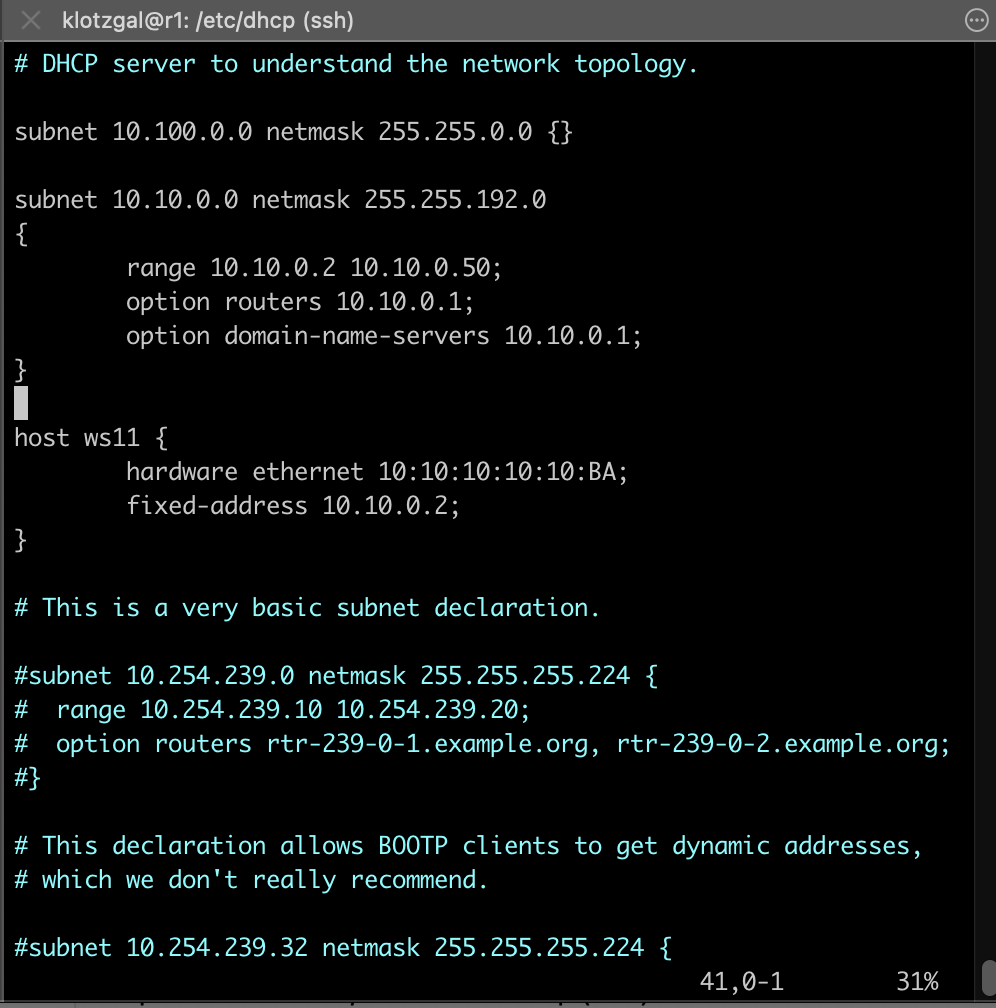
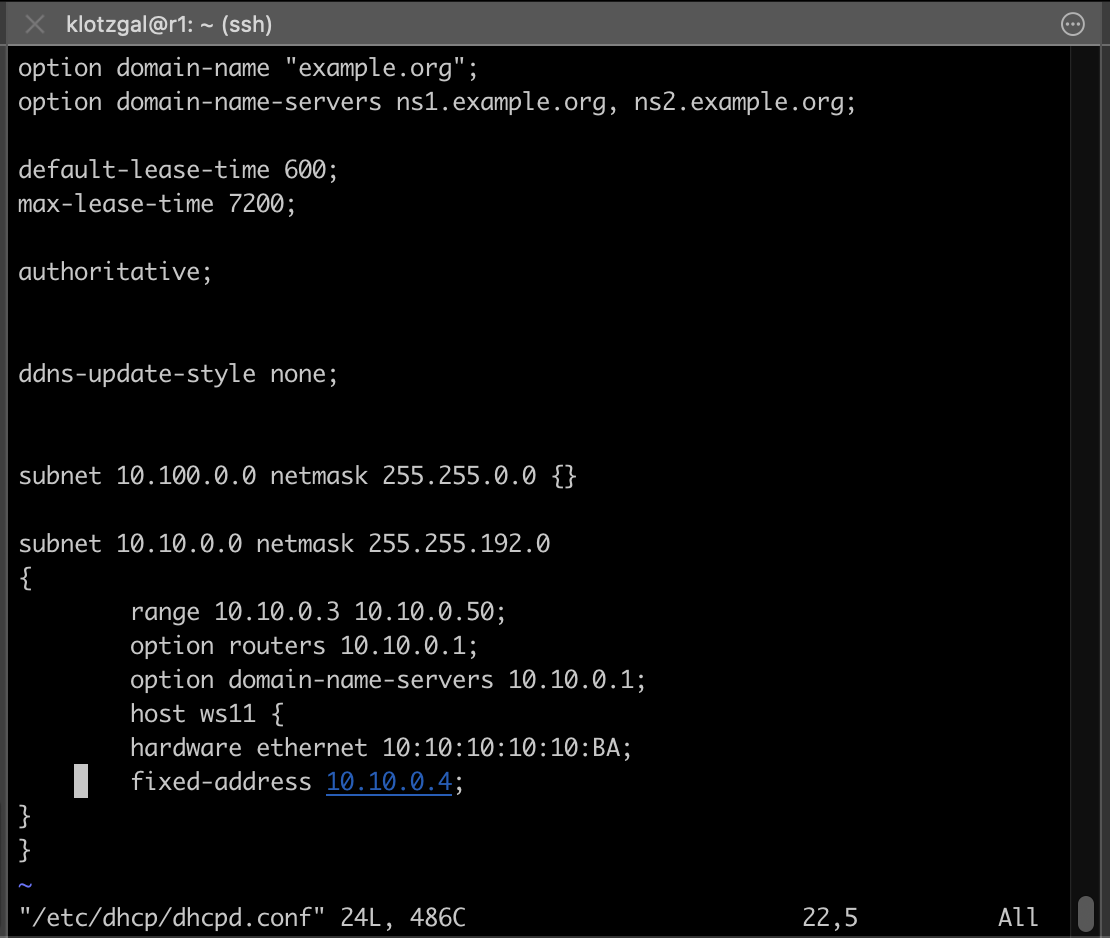
6

Changed region(s): [[0.0, 0.0, 1.0, 1.0], [0.5914, 0.8348, 0.9337, 0.8657], [0.6225, 0.7111, 0.9337, 0.742]]

diff --git a/src/otchet.md b/src/otchet.md
@@ -314,21 +314,21 @@ subnet 10.20.0.0 netmask 255.255.255.192
 - ![ws1](screens/6.7.png)
 ##### Запросить с ws21 обновление ip адреса
 - В отчёте поместить скрины ip до и после обновления.
+- ![ws1](screens/6.before.png)
+- ![ws1](screens/6.after.png)
 - В отчёте описать, какими опциями **DHCP** сервера пользовались в данном пункте.
-
-##### Сохранить дампы образов виртуальных машин
-**p.s. Ни в коем случае не сохранять дампы в гит!**
-
+- sudo dhclient -r
+- sudo dhclient -v
+- ![ws1](screens/6.8.png)
 ## Part 7. **NAT**
-`-` Ну и, наконец, в качестве вишенки на торте, я расскажу тебе про механизм преобразования адресов.
 
 **== Задание ==**
-
-*В данном задании используются виртуальные машины из Части 5*
 ##### В файле */etc/apache2/ports.conf* на ws22 и r1 изменить строку `Listen 80` на `Listen 0.0.0.0:80`, то есть сделать сервер Apache2 общедоступным
 - В отчёт поместить скрин с содержанием изменённого файла.
+- ![ws1](screens/7.1.png)
 ##### Запустить веб-сервер Apache командой `service apache2 start` на ws22 и r1
 - В отчёт поместить скрины с вызовом и выводом использованной команды.
+- ![ws1](screens/7.2.png)
 ##### Добавить в фаервол, созданный по аналогии с фаерволом из Части 4, на r2 следующие правила:
 ##### 1) удаление правил в таблице filter - `iptables -F`
 ##### 2) удаление правил в таблице "NAT" - `iptables -F -t nat`
